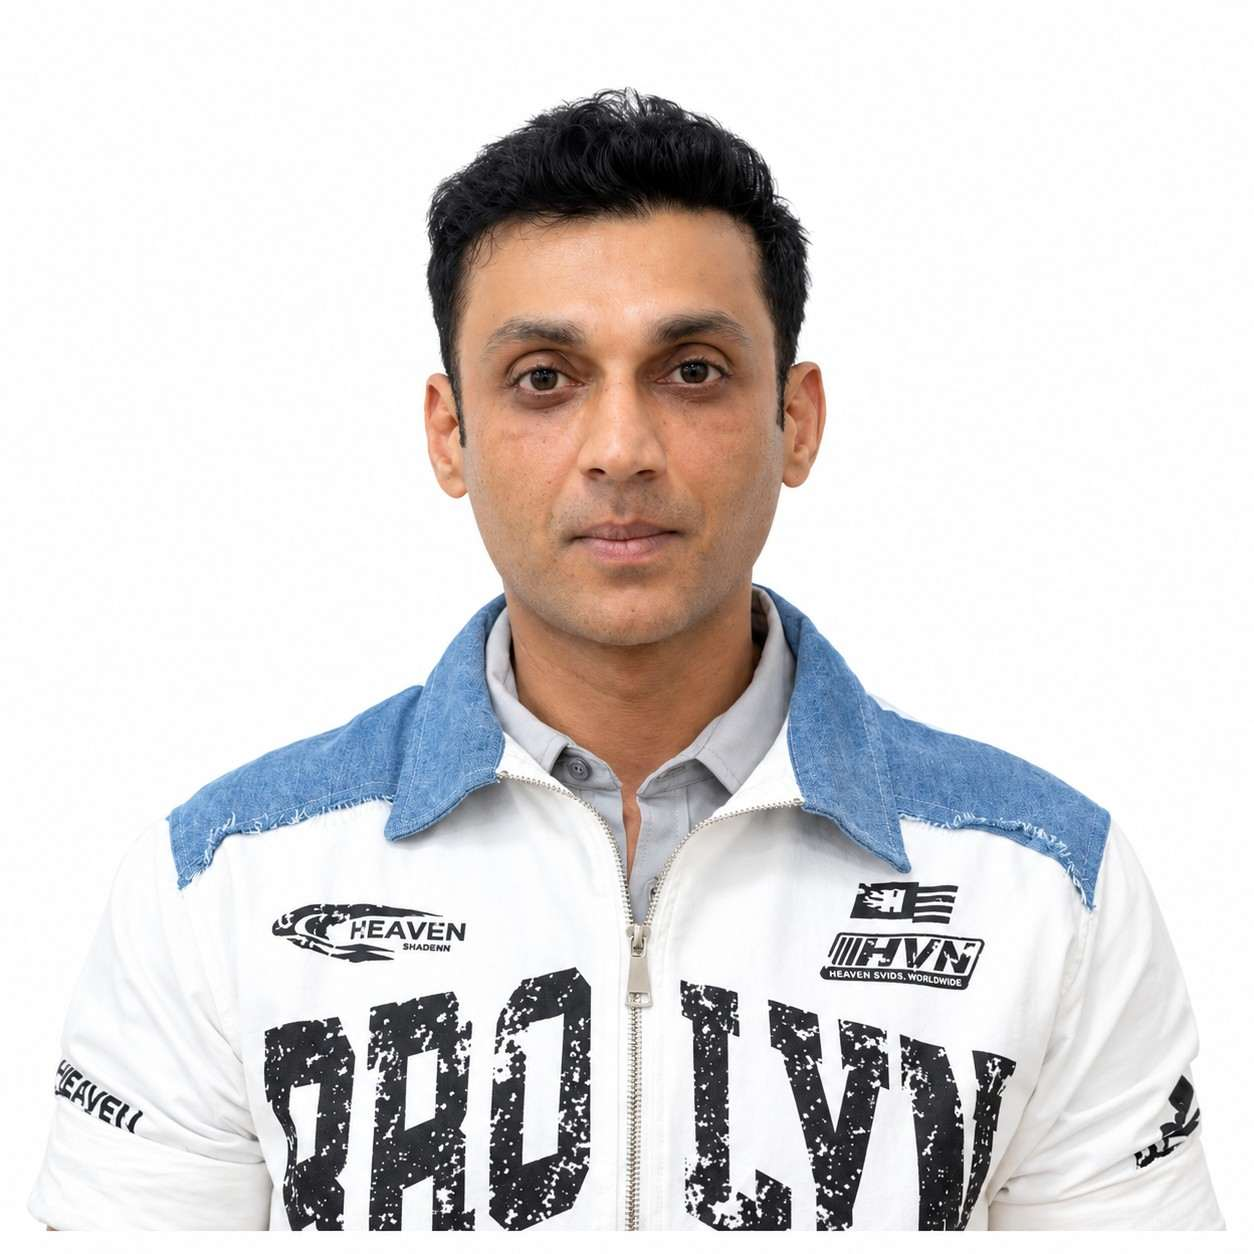
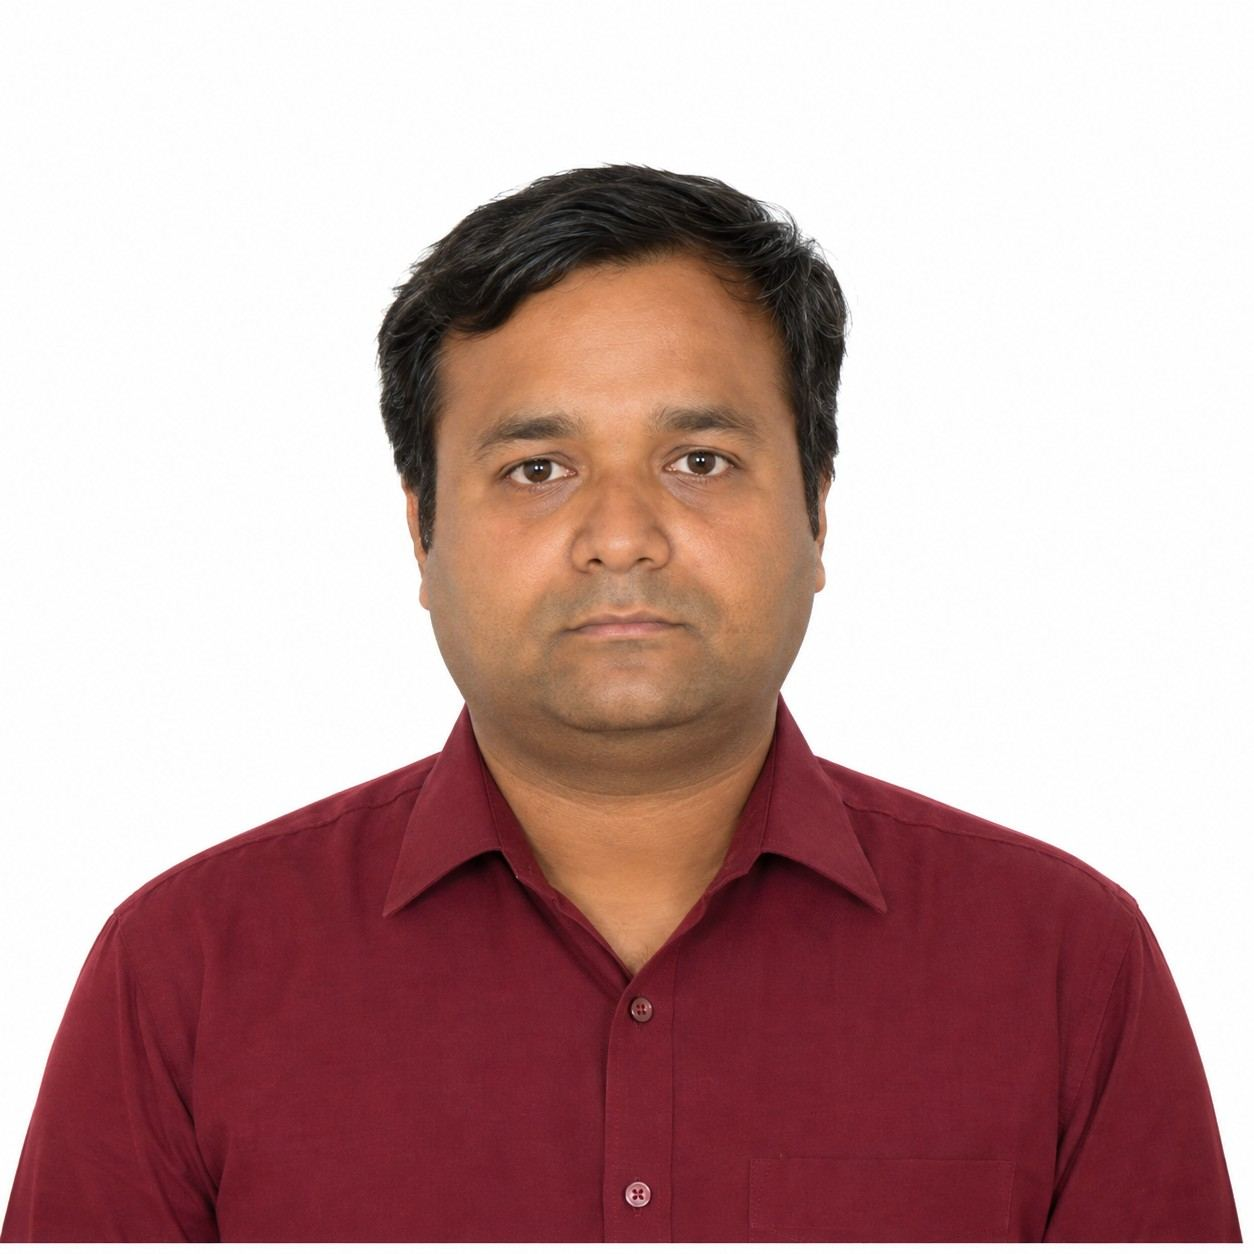
commit

diff --git a/src/app/robots.ts b/src/app/robots.ts
@@ -11,7 +11,9 @@ export default function robots(): MetadataRoute.Robots {
     sitemap: [
       "https://www.fostiima.org/sitemap.xml",
       "https://www.fostiima.org/sitemap-images.xml",
+      "https://www.fostiima.org/sitemap-index.xml",
       "https://www.fostiima.org/sitemap-videos.xml",
     ],
+     host: "https://www.fostiima.org",
   };
 }

diff --git a/src/data/faculty.ts b/src/data/faculty.ts
@@ -299,7 +299,7 @@ export const facultyData: Faculty[] = [
   {
     slug: "mr-shagun-s",
     name: "Mr. Shagun. S",
-    image: "/home/faculty/mr-shagun-s.webp",
+    image: "/home/faculty/mr-shagun-s1.webp",
     qualification: "MBA",
     experience: "20+ years",
     domain: "Sales & Marketing, Business Growth",
